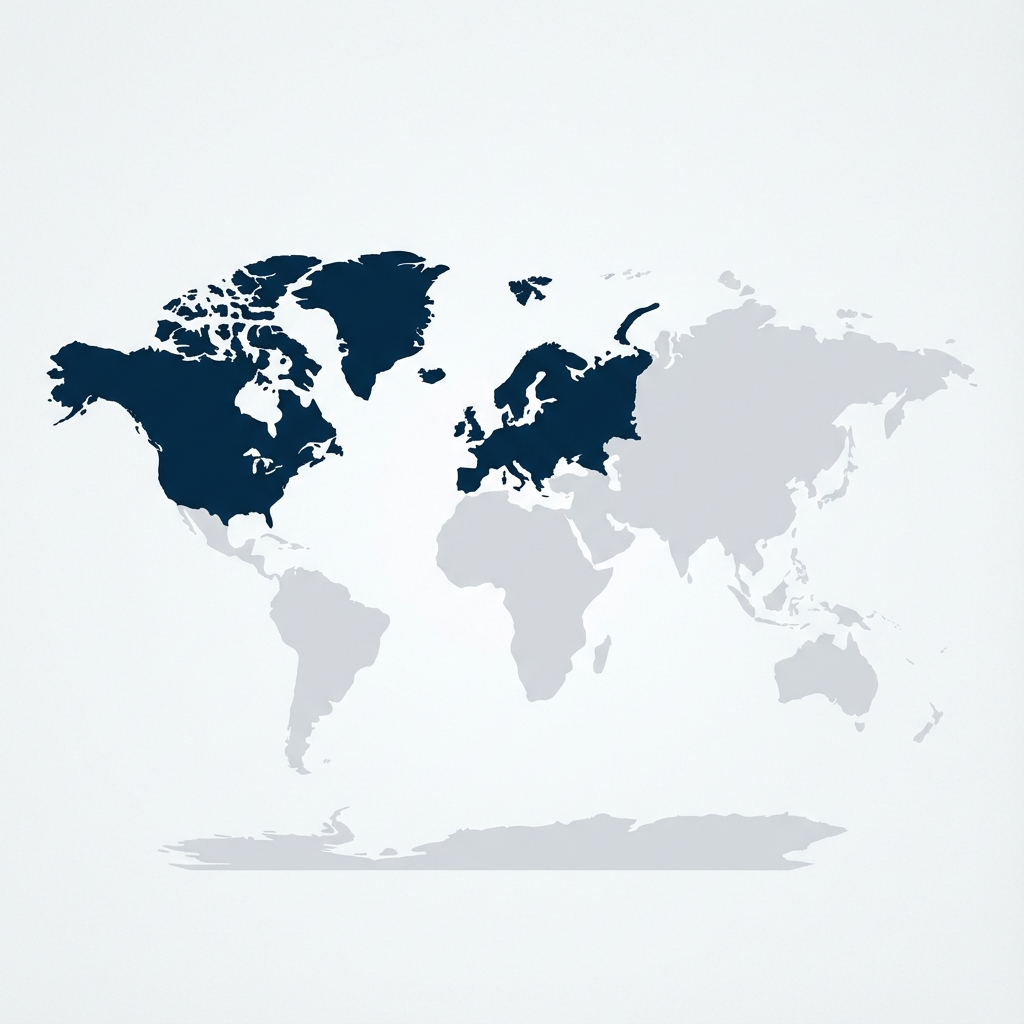
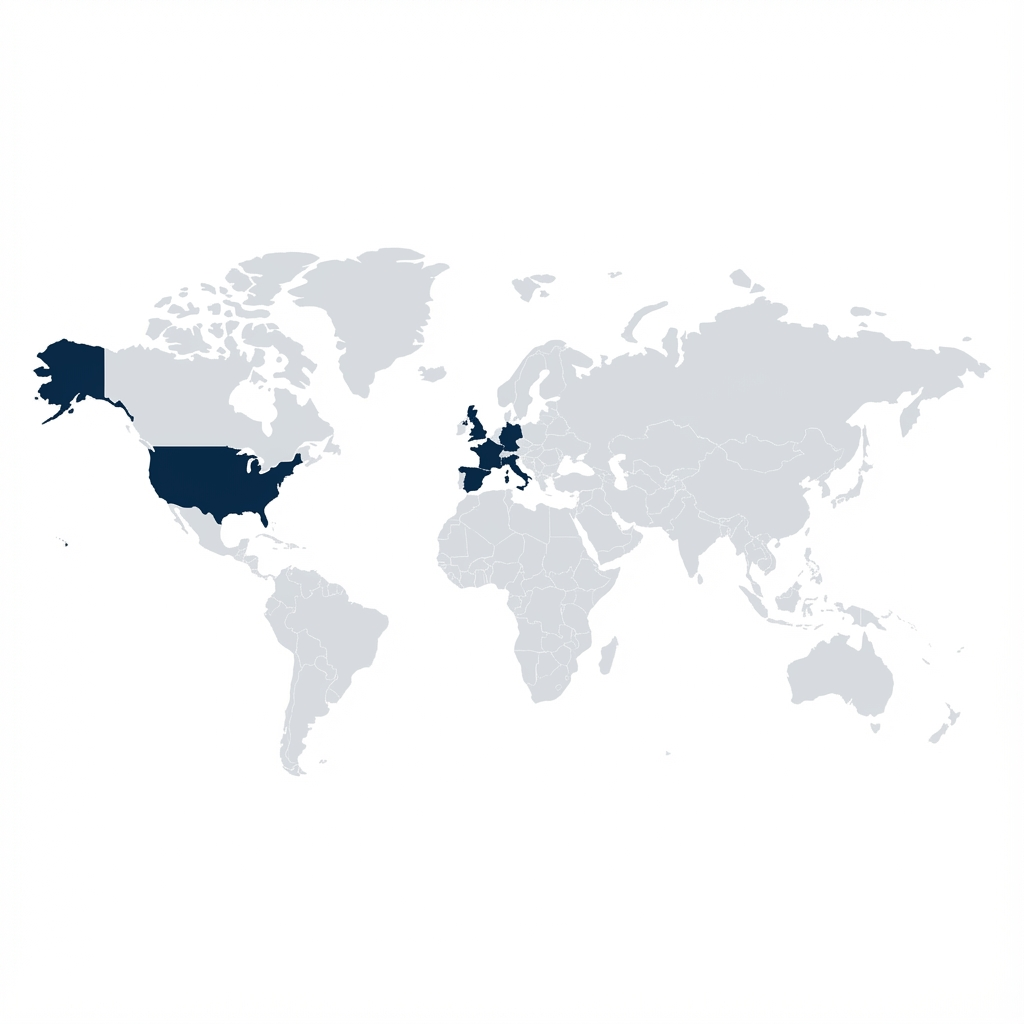
Update map with selected countries + fix hover behavior

diff --git a/src/components/ui/CaseStudyMap.tsx b/src/components/ui/CaseStudyMap.tsx
@@ -67,11 +67,23 @@ const caseStudies: CaseStudy[] = [
 export const CaseStudyMap = () => {
     const [activePin, setActivePin] = useState<string | null>(null);
 
+    // Keep card visible when hovering over it
+    const handleCardMouseEnter = () => {
+        // Don't clear activePin when entering the card
+    };
+
+    const handleCardMouseLeave = () => {
+        setActivePin(null);
+    };
+
     return (
         <div className="w-full">
             {/* Map Container */}
-            <div className="relative w-full aspect-[2/1] max-w-6xl mx-auto">
-                {/* World Map SVG Background */}
+            <div
+                className="relative w-full aspect-[2/1] max-w-6xl mx-auto"
+                onMouseLeave={() => setActivePin(null)}
+            >
+                {/* World Map Background */}
                 <div className="absolute inset-0 rounded-2xl overflow-hidden bg-gradient-to-br from-gray-100 to-gray-200">
                     <img
                         src="/images/world-map.png"
@@ -87,7 +99,6 @@ export const CaseStudyMap = () => {
                         className="absolute transform -translate-x-1/2 -translate-y-1/2 z-10"
                         style={{ left: study.position.left, top: study.position.top }}
                         onMouseEnter={() => setActivePin(study.id)}
-                        onMouseLeave={() => setActivePin(null)}
                     >
                         {/* Pin with pulse animation */}
                         <Link href={study.href} className="block relative group">
@@ -102,7 +113,7 @@ export const CaseStudyMap = () => {
                                 <div className="w-2 h-2 rounded-full bg-white" />
                             </div>
 
-                            {/* Tooltip Label - Always visible on hover */}
+                            {/* Tooltip Label */}
                             <div className={`absolute left-1/2 -translate-x-1/2 bottom-full mb-2 
                              px-3 py-1 bg-[#0B223A] text-white text-sm font-medium 
                              rounded-lg whitespace-nowrap shadow-xl
@@ -116,11 +127,15 @@ export const CaseStudyMap = () => {
                     </div>
                 ))}
 
-                {/* Active Case Study Card - Shows on hover */}
+                {/* Active Case Study Card - Stays visible when hovering */}
                 {activePin && (
-                    <div className="absolute right-4 top-4 w-72 bg-white rounded-xl shadow-2xl 
-                        border border-gray-100 overflow-hidden z-20
-                        animate-fade-in">
+                    <div
+                        className="absolute right-4 top-4 w-72 bg-white rounded-xl shadow-2xl 
+                      border border-gray-100 overflow-hidden z-20
+                      animate-fade-in"
+                        onMouseEnter={handleCardMouseEnter}
+                        onMouseLeave={handleCardMouseLeave}
+                    >
                         {caseStudies.filter(s => s.id === activePin).map(study => (
                             <Link href={study.href} key={study.id} className="block group">
                                 <div className="p-5">
